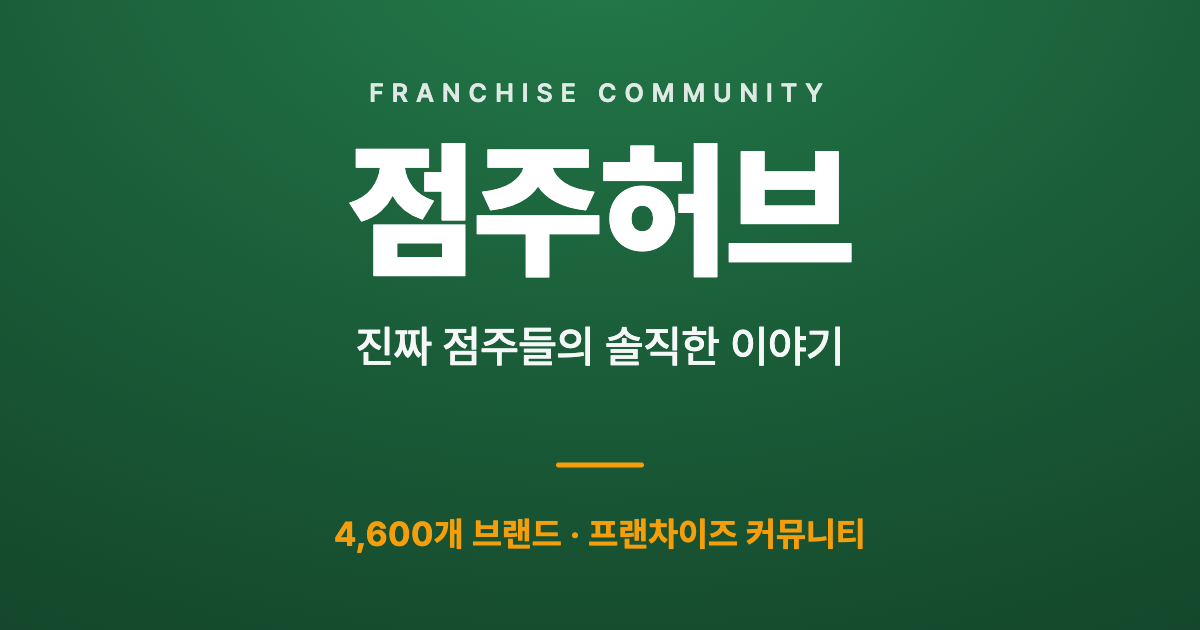
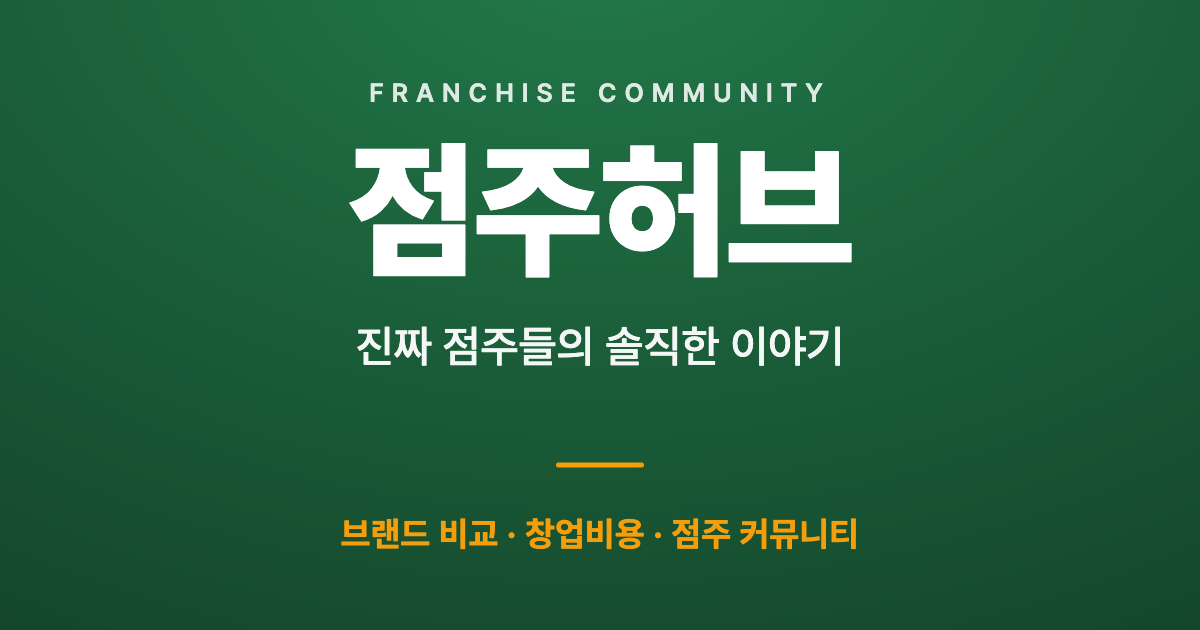
feat: 구글 서치콘솔 인증 태그 추가, OG 이미지·메타 문구에서 브랜드 수 제거, 브랜드 상단 출처 문구 정리

Changed region(s): [[0.2775, 0.8143, 0.74, 0.8746]]

diff --git a/app/brand/[slug]/page.tsx b/app/brand/[slug]/page.tsx
@@ -6,7 +6,7 @@ import Header from "@/components/Header";
 import PostCard from "@/components/PostCard";
 import AdSensePlaceholder from "@/components/AdSensePlaceholder";
 import { formatCurrency, formatNumber, formatDate, boardTypeLabel } from "@/lib/utils";
-import { Store, Calendar, FileText, TrendingUp, DollarSign, Info, ChevronRight } from "lucide-react";
+import { Store, Calendar, FileText, TrendingUp, DollarSign, ChevronRight } from "lucide-react";
 import BrandLogo from "@/components/BrandLogo";
 import BrandNotice from "@/components/BrandNotice";
 
@@ -167,12 +167,6 @@ export default async function BrandDetailPage({
                 )}
               </div>
               <h1 className="text-2xl sm:text-3xl font-black">{brand.name}</h1>
-              {brand.dataUpdatedAt && (
-                <p className="text-green-300 text-xs mt-1 flex items-center gap-1">
-                  <Info size={11} />
-                  {new Date(brand.dataUpdatedAt).getFullYear()}년 공정위 정보공개서 기준
-                </p>
-              )}
             </div>
           </div>
 

diff --git a/app/layout.tsx b/app/layout.tsx
@@ -7,10 +7,10 @@ import "./globals.css";
 export const metadata: Metadata = {
   title: {
     template: "%s | 점주허브",
-    default: "점주허브 - 11,000개+ 브랜드, 진짜 점주들의 솔직한 이야기",
+    default: "점주허브 - 진짜 점주들의 솔직한 이야기",
   },
   description:
-    "프랜차이즈 가맹점주와 예비창업자를 위한 커뮤니티. 11,000개+ 브랜드 가맹비, 평균매출, 점주 후기를 확인하세요.",
+    "프랜차이즈 가맹점주와 예비창업자를 위한 커뮤니티. 브랜드 가맹비, 평균매출, 창업비용, 점주 후기를 확인하세요.",
   keywords: ["프랜차이즈", "가맹점", "점주", "창업", "가맹비", "평균매출", "점주허브"],
   authors: [{ name: "점주허브" }],
   creator: "점주허브",
@@ -35,6 +35,9 @@ export const metadata: Metadata = {
     images: ["https://jumjuhub.com/og-image.png"],
   },
   manifest: "/manifest.json",
+  verification: {
+    google: "JhC2WfwMuwTgmf92Y7qlzWycrflGkCe74K4GvNuPYQc",
+  },
 };
 
 export const viewport: Viewport = {